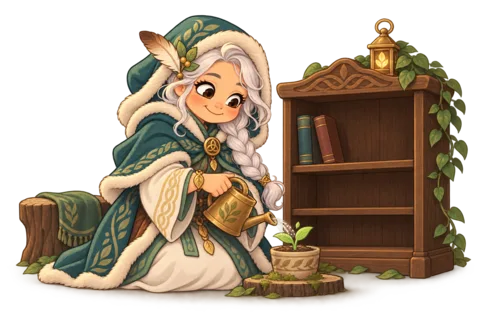
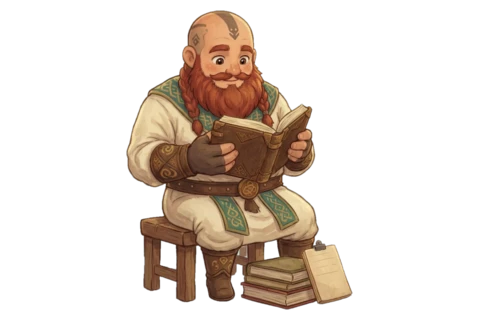
feat(studio): Fróði keeps the Library (#65)
The Library gets its own resident (Rylee's interview, 26 Sep): Fróði, a
big red-bearded Norse warrior who never speaks and writes on a notepad on
a little wooden paddle; he never lets a book be lost or forgotten, is gentle
with others' stories and hard on his own. Urðr keeps the Chronicle only,
ending the two-Urðr collision the walkthrough flagged. New portrait and two
Library poses (Rylee's pick, Wan 2.7 Pro drafts); docs/guides/residents.md
holds Fróði's and Ratatoskr's voice notes in Rylee's words.

diff --git a/web/app.js b/web/app.js
@@ -8,6 +8,7 @@
  *   The Map Room → The Cartographer   The Casting   → The Rune-Carver
  *   The Folks    → The Keeper of Faces The Archives  → Skuld
  *   The Vault    → The Hoard-Keeper   The Hall      → Ratatoskr, the ferry
+ *   The Library  → Fróði, who writes on a paddle and never speaks
  *
  * Each resident has its own little toolkit of role templates and uses
  * the smallest model that passes its job (docs/guides/brain-roles.md),
@@ -235,7 +236,7 @@
   var DOOR_NOTES = {
     workshop: 'the candle is still going', map: 'unfinished edges, mind your step',
     characters: 'a chair by the window is still warm', items: 'please do not lick the rings',
-    journal: 'Urðr hears everything', library: 'read everything; that is what it is for', runes: 'the stones will not flatter you',
+    journal: 'Urðr hears everything', library: 'no book is lost here', runes: 'the stones will not flatter you',
     evidence: 'watch the third step', hall: 'dusted on Tuesdays, by tail',
     settings: 'Bolt is napping on the boiler'
   };
@@ -248,7 +249,7 @@
 
   // The department each room is, in studio words
   var SCREEN_DEPTS = {
-    launcher: 'Welcome', floor: 'Every department', library: 'Books \u00B7 kept by Ur\u00F0r', workshop: 'Concept \u00B7 the brief',
+    launcher: 'Welcome', floor: 'Every department', library: 'Books \u00B7 kept by Fr\u00F3\u00F0i', workshop: 'Concept \u00B7 the brief',
     map: 'Level design', characters: 'Characters', items: 'Items \u0026 economy',
     journal: 'Production records', runes: 'Inspiration', evidence: 'The story bible',
     hall: 'Launch \u00B7 on display', settings: 'The machinery'
@@ -721,7 +722,7 @@
   var RESIDENT_ART = {
     hall: 'ratatoskr', workshop: 'storyteller', journal: 'urdr', map: 'cartographer',
     characters: 'keeper-of-faces', items: 'hoard-keeper', runes: 'rune-carver',
-    evidence: 'skuld', settings: 'volundr', spark: 'bolt', library: 'urdr'
+    evidence: 'skuld', settings: 'volundr', spark: 'bolt', library: 'frodi'
   };
   var ROOM_BANNERS = {
     workshop: 'desk', map: 'map-room', characters: 'folks', items: 'vault', journal: 'chronicle',
@@ -816,9 +817,11 @@
       ]
     },
     library: {
-      name: 'Ur\u00F0r', mark: '\u2767',
+      /* Fr\u00F3\u00F0i never speaks: he writes on a notepad on a little wooden
+         paddle (Rylee, 2026-09-26; docs/guides/residents.md). */
+      name: 'Fr\u00F3\u00F0i', mark: '\u16A0',
       craft: 'keeper of the Library',
-      greeting: 'Read everything. That is what it is for.',
+      greeting: '(The paddle comes up.) No book is lost here.',
       roles: [
         'Which book should I read first?',
         'What would a found note in this world sound like?',
@@ -3021,7 +3024,7 @@
   })();
 
   /* ══════════════════════════════════════════════════════
-     THE LIBRARY — Urðr's shelves: the studio's books and the world's
+     THE LIBRARY — Fróði's shelves: the studio's books and the world's
      ══════════════════════════════════════════════════════ */
 
   screens.library = (function () {
@@ -3123,7 +3126,7 @@
       API.library()
         .then(function (data) {
           shelves.innerHTML = '';
-          var ladder = spot('urdr-library-ladder', 'spot--inline lib-ladder');
+          var ladder = spot('frodi-library-ladder', 'spot--inline lib-ladder');
           var intro = h('div', { className: 'spot-row' });
           intro.appendChild(h('p', { className: 'archives-intro',
             textContent: 'Books are written by people, never by the model. A world keeps its own in its library folder.' }));

diff --git a/web/studio.css b/web/studio.css
@@ -698,7 +698,7 @@ html[data-light="day"] .evidence-level--5 { background: color-mix(in srgb, var(-
 .pinned-card__lore { font-size: 0.85rem; color: var(--color-ink-dim); }
 
 /* ------------------------------------------------------------
-   8h. The Library: Urðr's shelves and the reading desk
+   8h. The Library: Fróði's shelves and the reading desk
    ------------------------------------------------------------ */
 .lib-room { display: grid; gap: 20px; }
 .lib-grid { display: grid; grid-template-columns: minmax(0, 1fr) minmax(300px, 420px); gap: 22px; align-items: start; }

diff --git a/docs/guides/residents.md b/docs/guides/residents.md
@@ -1,0 +1,41 @@
+# Residents: voice notes
+
+Who the studio's residents are, in Rylee's words, from short interviews
+(one question at a time). These notes are the author's; extend them only
+with the author. Each resident's templates and lines are built from here.
+
+## Fróði, keeper of the Library
+
+Interviewed 2026-09-26. The Library's own resident (Urðr keeps the
+Chronicle).
+
+- **Name:** Fróði, "wise, learned" (Rylee picked it from suggested Old
+  Norse names; also a legendary king known for a peaceful reign).
+- **Looks like:** a big, burly Norse warrior: a big red beard in two
+  braids, a shaved head with a small rune, a cream tunic with a knotwork
+  collar (Rylee's pick of three portraits).
+- **Speaks:** never. He's mute and talks with a notepad on a little wooden
+  paddle, held up for you to read. In the studio his lines are what he
+  writes on the paddle.
+- **Cares about:** he would never let a book get lost or forgotten.
+- **With stories:** gentle with other people's stories, hard on his own.
+
+## Ratatoskr, the ferry
+
+Interviewed 2026-09-26. Runs between every room; the studio's executive
+assistant.
+
+- **How he sounds:** cocky and frantic.
+- **What he cares about:** making things better. He keeps things running
+  super well despite everyone having different needs. He's flexible.
+- **Saying no:** a joke first, then a redirect to something he can do,
+  Norse-flavoured. ("A flying bird? No thanks.")
+- **The household:** he isn't mean. If he delivers insults it's because
+  he's in on the joke, because they love each other. Most people find
+  him invaluable.
+- **His thing:** acorns. (The studio already knew: "Ratatoskr has counted
+  every acorn. twice.")
+- **What he'd never do:** pretend he did work he didn't, make you feel
+  silly for asking, or gossip about the author. He loves his job and
+  keeping things going, but he loves STORIES, and stories never cause
+  harm or lie.
